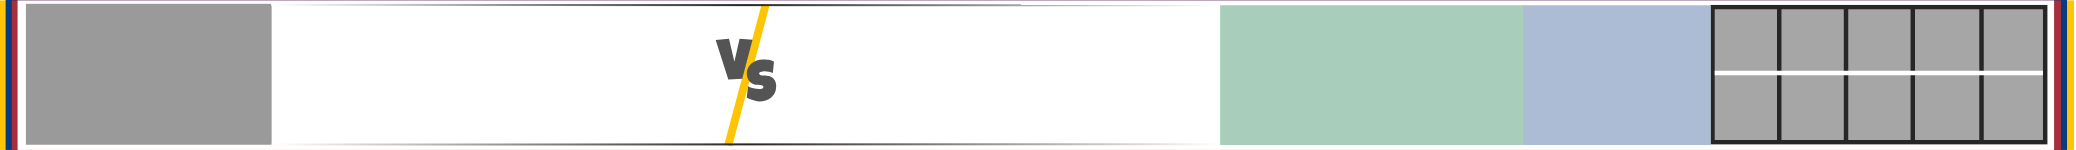
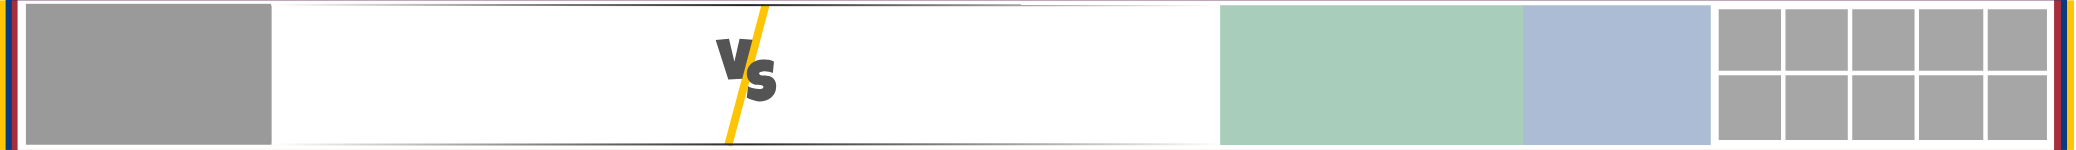
[+] Add results feature

Changed region(s): [[0.8015, 0.5067, 0.9865, 0.9867], [0.8015, 0.0267, 0.9865, 0.48]]

diff --git a/main.py b/main.py
@@ -9,6 +9,12 @@ from datetime import datetime
 
 #== Configuration ======================================================
 
+#saison = "2025/2026"
+saison = "2024/2025"
+
+club = "FS VAL D'EUROPE ESBLY COUPVRAY VB"
+club_id = "0775819"
+
 jours = {"Monday": "Lundi", "Tuesday": "Mardi", "Wednesday": "Mercredi", "Thursday": "Jeudi", "Friday": "Vendredi", "Saturday": "Samedi", "Sunday": "Dimanche"}
 mois = {"January": "janvier", "February": "février", "March": "mars", "April": "avril", "May": "mai", "June": "juin", "July": "juillet", "August": "août", "September": "septembre", "October": "octobre", "November": "novembre", "December": "décembre"}
 entities = {
@@ -258,8 +264,8 @@ def create_score_image(score):
     """
     Génère une image représentant un score de match de volley :
     - chaque set affiché verticalement (équipe A en haut, B en bas)
-    - fond jaune + texte noir pour le score gagnant du set
-    - fond noir + texte blanc pour le score perdant
+    - fond gagnant / perdant et texte configurables en RGB
+    - taille de police configurable
 
     Argument :
     - score : str, format '26-24,19-25,...'
@@ -267,6 +273,16 @@ def create_score_image(score):
     Retourne :
     - image PIL.Image
     """
+
+    # === Paramètres ===
+    FONT_SIZE = 40
+    OFFSET_Y = -5
+
+    COLOR_WIN_BG = (253, 197, 5)
+    COLOR_WIN_FG = (87, 87, 87)
+    COLOR_LOSE_BG = (38, 38, 38)
+    COLOR_LOSE_FG = (255, 255, 255)
+
     sets = []
     for s in score.split(','):
         try:
@@ -275,49 +291,44 @@ def create_score_image(score):
         except ValueError:
             continue
 
-    # Paramètres
+    # Dimensions
     set_count = len(sets)
-    box_width, box_height = 80, 50
-    padding, spacing = 20, 10
+    box_width, box_height = 61, 61
+    padding, spacing = 6, 6
     width = set_count * (box_width + spacing) + padding * 2 - spacing
     height = box_height * 2 + padding * 3
 
     image = Image.new("RGB", (width, height), "white")
     draw = ImageDraw.Draw(image)
 
-    try:
-        font = ImageFont.truetype("DejaVuSans-Bold.ttf", 22)
-    except:
-        font = ImageFont.load_default()
+    font = ImageFont.truetype("_font/OpenSans-ExtraBold.ttf", FONT_SIZE)
+
+    ascent, descent = font.getmetrics()
 
     for i, (a, b) in enumerate(sets):
         x = padding + i * (box_width + spacing)
         y_top = padding
         y_bottom = y_top + box_height + padding
 
-        # Définir couleurs
-        box_a = ("yellow", "black") if a > b else ("black", "white")
-        box_b = ("yellow", "black") if b > a else ("black", "white")
+        # Couleurs selon le gagnant
+        bg_a, fg_a = (COLOR_WIN_BG, COLOR_WIN_FG) if a > b else (COLOR_LOSE_BG, COLOR_LOSE_FG)
+        bg_b, fg_b = (COLOR_WIN_BG, COLOR_WIN_FG) if b > a else (COLOR_LOSE_BG, COLOR_LOSE_FG)
 
-        # Boîte équipe A
-        draw.rectangle([x, y_top, x + box_width, y_top + box_height], fill=box_a[0])
+        # Score équipe A
         a_text = str(a)
-        a_size = draw.textbbox((0, 0), a_text, font=font)
-        draw.text(
-            (x + (box_width - (a_size[2] - a_size[0])) / 2,
-             y_top + (box_height - (a_size[3] - a_size[1])) / 2),
-            a_text, fill=box_a[1], font=font
-        )
+        a_width = draw.textlength(a_text, font=font)
+        a_x = x + (box_width - a_width) / 2
+        a_y = y_top + (box_height - ascent) / 2 + OFFSET_Y
+        draw.rectangle([x, y_top, x + box_width, y_top + box_height], fill=bg_a)
+        draw.text((a_x, a_y), a_text, fill=fg_a, font=font)
 
-        # Boîte équipe B
-        draw.rectangle([x, y_bottom, x + box_width, y_bottom + box_height], fill=box_b[0])
+        # Score équipe B
         b_text = str(b)
-        b_size = draw.textbbox((0, 0), b_text, font=font)
-        draw.text(
-            (x + (box_width - (b_size[2] - b_size[0])) / 2,
-             y_bottom + (box_height - (b_size[3] - b_size[1])) / 2),
-            b_text, fill=box_b[1], font=font
-        )
+        b_width = draw.textlength(b_text, font=font)
+        b_x = x + (box_width - b_width) / 2
+        b_y = y_bottom + (box_height - ascent) / 2 + OFFSET_Y
+        draw.rectangle([x, y_bottom, x + box_width, y_bottom + box_height], fill=bg_b)
+        draw.text((b_x, b_y), b_text, fill=fg_b, font=font)
 
     return image
 
@@ -361,8 +372,8 @@ def parse_csv_rows():
     """
     url = "https://www.ffvbbeach.org/ffvbapp/resu/vbspo_calendrier_export_club.php"
     payload = {
-        "cnclub": "0775819",
-        "cal_saison": "2024/2025",
+        "cnclub": club_id,
+        "cal_saison": saison,
         "typ_edition": "E",
         "type": "RES"
     }
@@ -418,6 +429,7 @@ def generate_filtered_image(categories_filter=None, date_start=None, date_end=No
     v_place_type = 215*m
     v_sets = 238*m
     v_victory = 238*m
+    v_score = 202*m
 
     draw_centered_text_overlay(background, title, 430*m, 660*m, v_title, fnt_gagalin_40, fill=(192,192,192,255), stroke_width=2, stroke_fill=(84,84,84,255))
 
@@ -463,19 +475,32 @@ def generate_filtered_image(categories_filter=None, date_start=None, date_end=No
 
         match mode:
             case "results":
-                
                 result = did_team_a_win(sets)
-                victory_color = "green" if result else "red" if result is False else "yellow"
-                victory_text = "VICTOIRE" if result else "DÉFAITE" if result is False else "INCONNU"
 
+                # Détection du club pour adapter l'affichage du résultat
+                club_a = club.lower() in team_a.lower()
+                club_b = club.lower() in team_b.lower()
+
+                if (result and club_a) or (not result and club_b):
+                    result = True
+                elif (not result and club_a) or (result and club_b):
+                    result = False
+
+                if score:
+                    victory_color = "green" if result else "red" if result is False else "yellow"
+                    victory_text = "VICTOIRE" if result else "DÉFAITE" if result is False else "INCONNU"
+                else:
+                    victory_color = "yellow"
+                                
                 overlay = Image.open(f"_img/objects/banner_result_{victory_color}.png").convert("RGBA")
                 background.paste(overlay, (20*m, v), overlay)
+
             case _: # Default "planning"
                 overlay = Image.open(f"_img/objects/banner_planning.png").convert("RGBA")
                 background.paste(overlay, (20*m, v), overlay)
 
         # Debug console
-        print(f"{format} | {date_full} - {entity} - {match} - {category} - {team_a} - {team_b} - {sets} - {score} - {place} | {victory_color}")
+        print(f"{format} | {date_full} - {entity} - {match} - {category} - {team_a} - {team_b} - {sets} - {score} - {place}")
 
 
         draw_centered_text_overlay(background, title_entity, 115*m, 95*m, v_entity, fonts["bold_15"], fill=(255,255,255,255), stroke_width=1, stroke_fill=(0,0,0,255))
@@ -490,14 +515,17 @@ def generate_filtered_image(categories_filter=None, date_start=None, date_end=No
 
         match mode:
             case "results":
-                if result:
-                    draw_centered_text_overlay(background, victory_text, 200*m, 705*m, v_victory, fonts["victory"], fill=(0,109,57,255))
-                else:
-                    draw_centered_text_overlay(background, victory_text, 200*m, 705*m, v_victory, fonts["victory"], fill=(167,46,59,255))
+                if score:
+                    if result:
+                        draw_centered_text_overlay(background, victory_text, 200*m, 705*m, v_victory, fonts["victory"], fill=(0,109,57,255))
+                    else:
+                        draw_centered_text_overlay(background, victory_text, 200*m, 705*m, v_victory, fonts["victory"], fill=(167,46,59,255))
 
-                sets_formatted = format_sets(sets)
-                draw_centered_text_overlay(background, sets_formatted, 100*m, 828*m, v_sets, fonts["sets"], fill=(10,58,128,255))
+                    sets_formatted = format_sets(sets)
+                    draw_centered_text_overlay(background, sets_formatted, 100*m, 828*m, v_sets, fonts["sets"], fill=(10,58,128,255))
 
+                    score_img = create_score_image(score)
+                    background.paste(score_img, (876*m, v_score))
 
             case _: # Default "planning"
                 draw_centered_text_overlay(background, date_full, 100*m, 705*m, v_date, fonts["bold_15"], fill=(255,255,255,255))
@@ -530,6 +558,7 @@ def generate_filtered_image(categories_filter=None, date_start=None, date_end=No
         v_place_type += v_delta
         v_sets += v_delta
         v_victory += v_delta
+        v_score += v_delta
 
     return background
 
